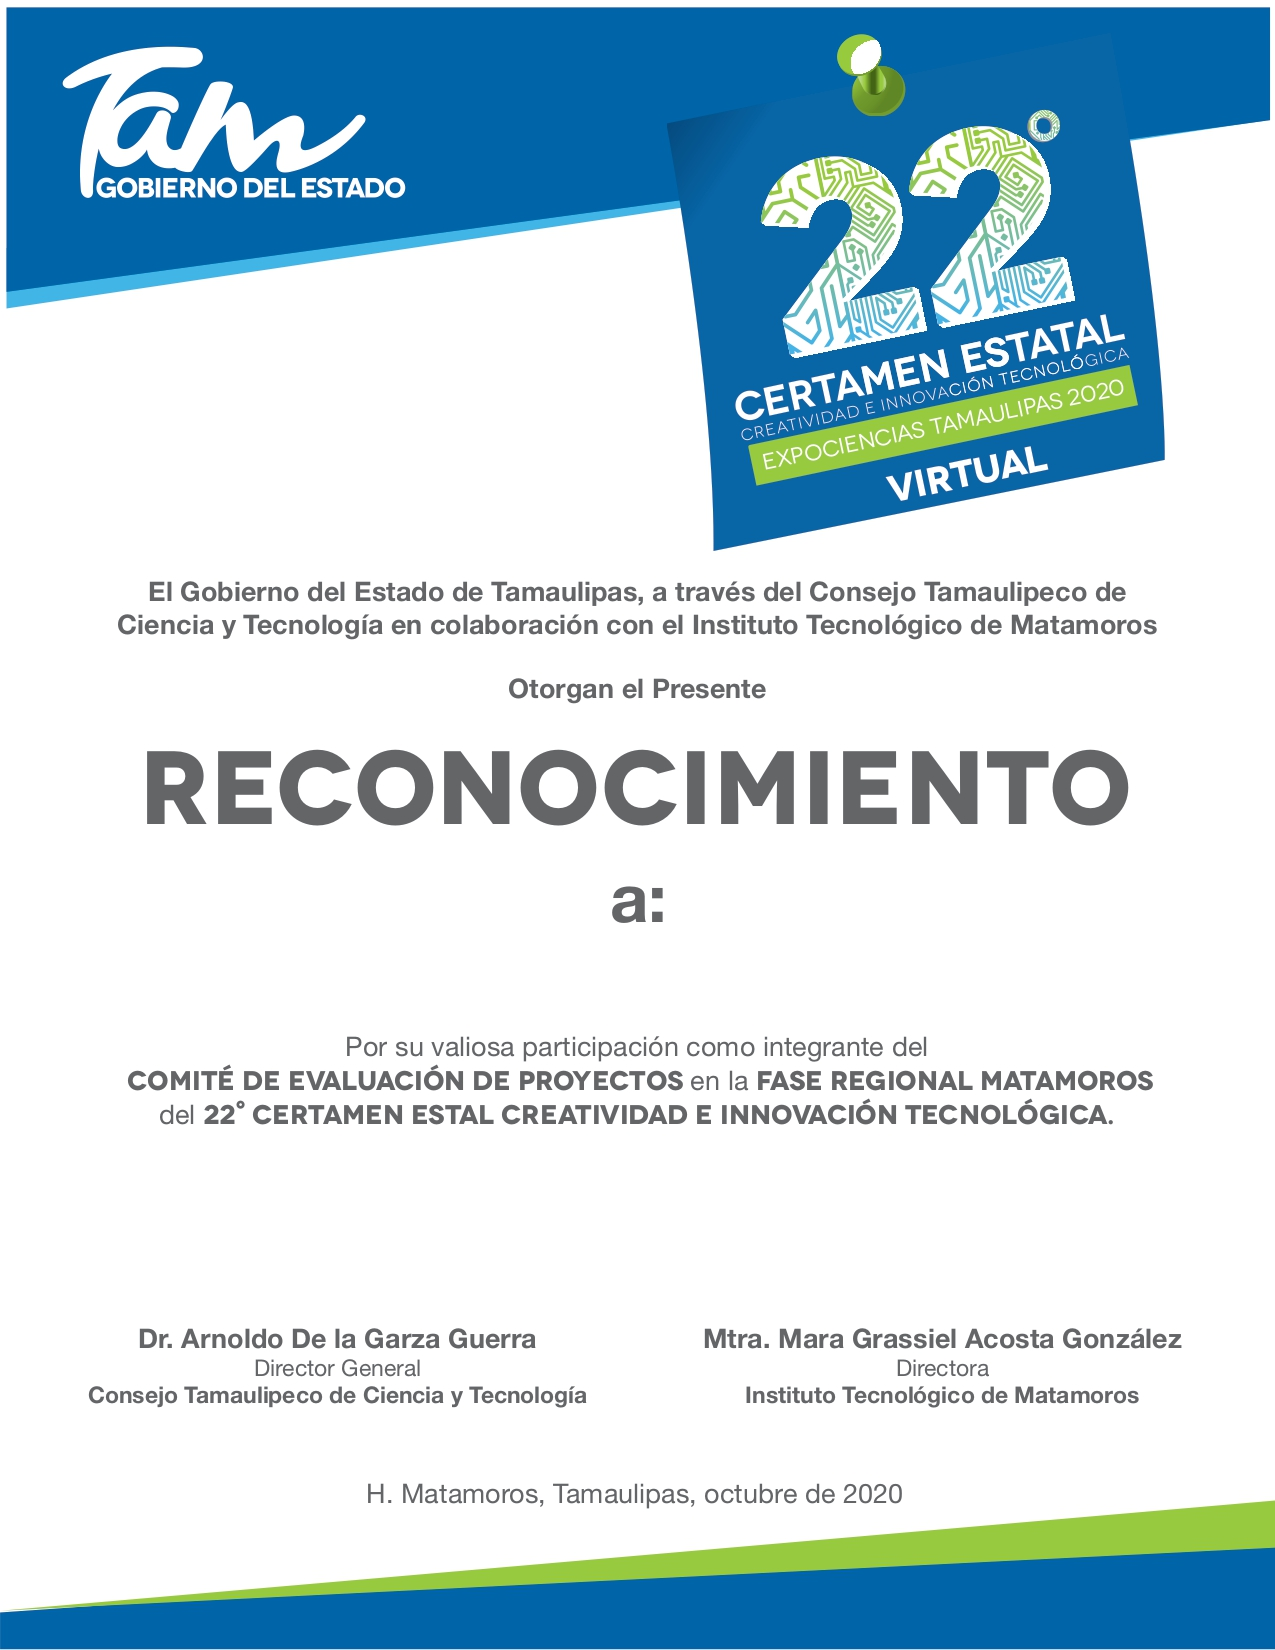
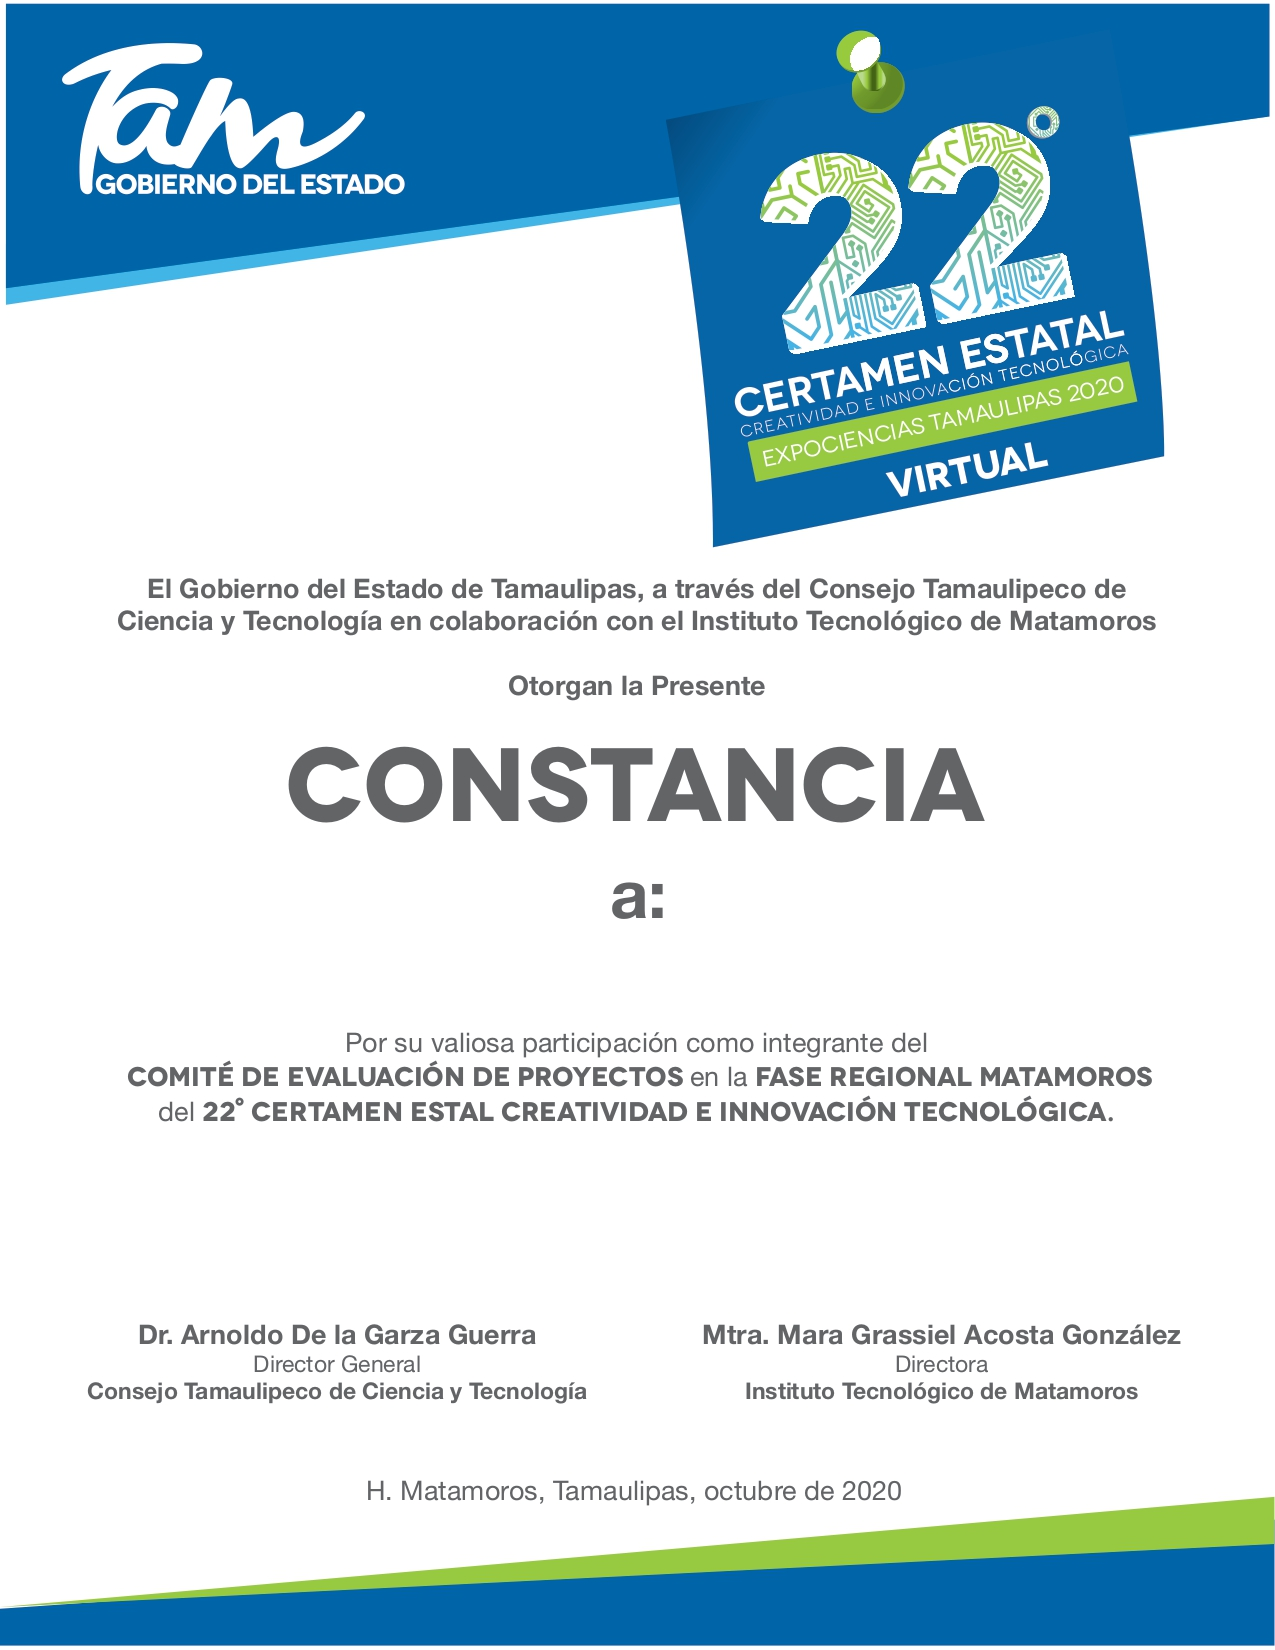
nuevas constancias jurado y solo firma direc reyno

diff --git a/src/app/judges/judges.component.ts b/src/app/judges/judges.component.ts
@@ -230,43 +230,56 @@ export class JudgesComponent implements OnInit {
       case 'El mante':
         const doc = new jsPDF();
         doc.addImage('assets/image/ReconocimientoJuradoMante.jpg', 'jpg', 0, 0, 210, 300).setFont('Helvetica').setFontSize(28).setTextColor('#646464');
-        doc.text(this.juezActual.nombre, 50, 185);
+        doc.text(this.juezActual.nombre, 50, 182);
         doc.save("constancia Juez "+this.juezActual.nombre+".pdf");
       break;
 
       case 'Reynosa':
         const doc1 = new jsPDF();
         doc1.addImage('assets/image/ReconocimientoJuradoReynosa.jpg', 'jpg', 0, 0, 210, 300).setFont('Helvetica').setFontSize(28).setTextColor('#646464');
-        doc1.text(this.juezActual.nombre, 50, 185);
+        doc1.text(this.juezActual.nombre, 50, 182);
+        doc1.addImage('assets/image/DirectorReynosa.png', 'png', 140, 226, 36, 20);
         doc1.save("constancia Juez "+this.juezActual.nombre+".pdf");
       break;
 
       case 'Matamoros':
         const doc2 = new jsPDF();
         doc2.addImage('assets/image/ReconocimientoJuradoMatamoros.jpg', 'jpg', 0, 0, 210, 300).setFont('Helvetica').setFontSize(28).setTextColor('#646464');
-        doc2.text(this.juezActual.nombre, 50, 185);
+        doc2.text(this.juezActual.nombre, 50, 182);
         doc2.save("constancia Juez "+this.juezActual.nombre+".pdf");
       break;
 
       case 'Madero':
         const doc3 = new jsPDF();
         doc3.addImage('assets/image/ReconocimientoJuradoMadero.jpg', 'jpg', 0, 0, 210, 300).setFont('Helvetica').setFontSize(28).setTextColor('#646464');
-        doc3.text(this.juezActual.nombre, 50, 185);
+        doc3.text(this.juezActual.nombre, 50, 182);
         doc3.save("constancia Juez "+this.juezActual.nombre+".pdf");
       break;
 
       case 'Jaumave':
         const doc4 = new jsPDF();
         doc4.addImage('assets/image/ReconocimientoJuradoJaumave.jpg', 'jpg', 0, 0, 210, 300).setFont('Helvetica').setFontSize(28).setTextColor('#646464');
-        doc4.text(this.juezActual.nombre, 50, 185);
+        doc4.text(this.juezActual.nombre, 50, 182);
         doc4.save("constancia Juez "+this.juezActual.nombre+".pdf");
       break;
 
       case 'Nuevo Laredo':
         const doc5 = new jsPDF();
         doc5.addImage('assets/image/ReconocimientoJuradoNuevoLaredo.jpg', 'jpg', 0, 0, 210, 300).setFont('Helvetica').setFontSize(28).setTextColor('#646464');
-        doc5.text(this.juezActual.nombre, 50, 185);
+        doc5.text(this.juezActual.nombre, 50, 182);
         doc5.save("constancia Juez "+this.juezActual.nombre+".pdf");
+      break;
+      case 'Victoria':
+        const doc6 = new jsPDF();
+        doc6.addImage('assets/image/ReconocimientoJuradoVictoria.jpg', 'jpg', 0, 0, 210, 300).setFont('Helvetica').setFontSize(28).setTextColor('#646464');
+        doc6.text(this.juezActual.nombre, 50, 182);
+        doc6.save("constancia Juez "+this.juezActual.nombre+".pdf");
+      break;
+      default:
+        Swal.fire({
+          icon: 'error',
+          title: 'No se encontró la sede'
+        });
       break;
     }
   }
